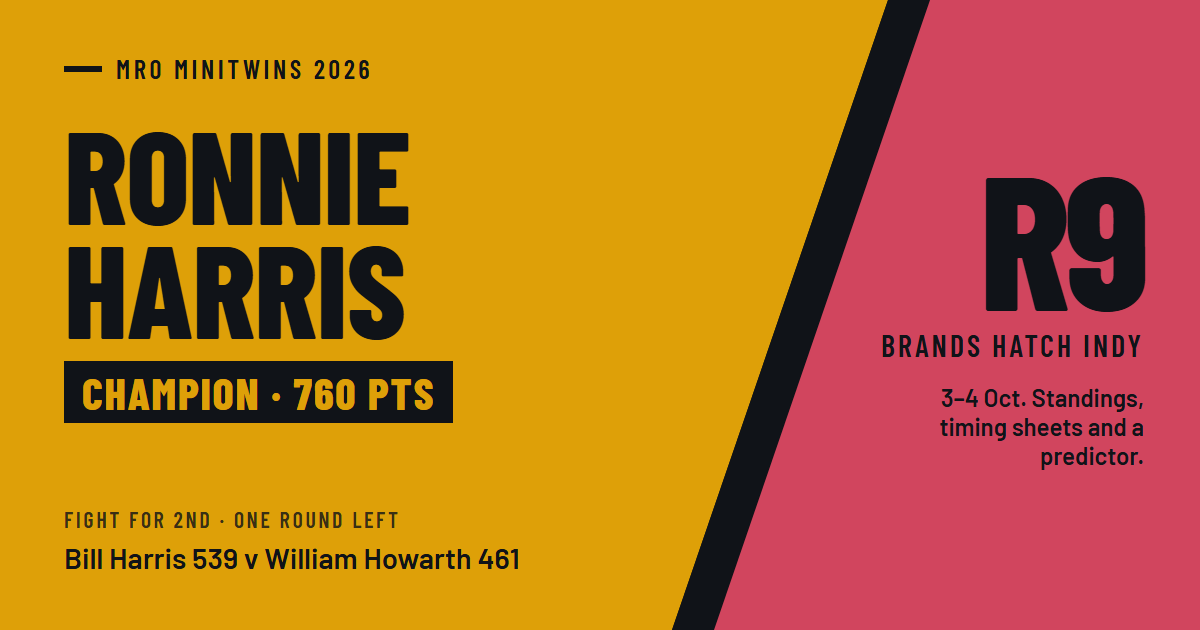
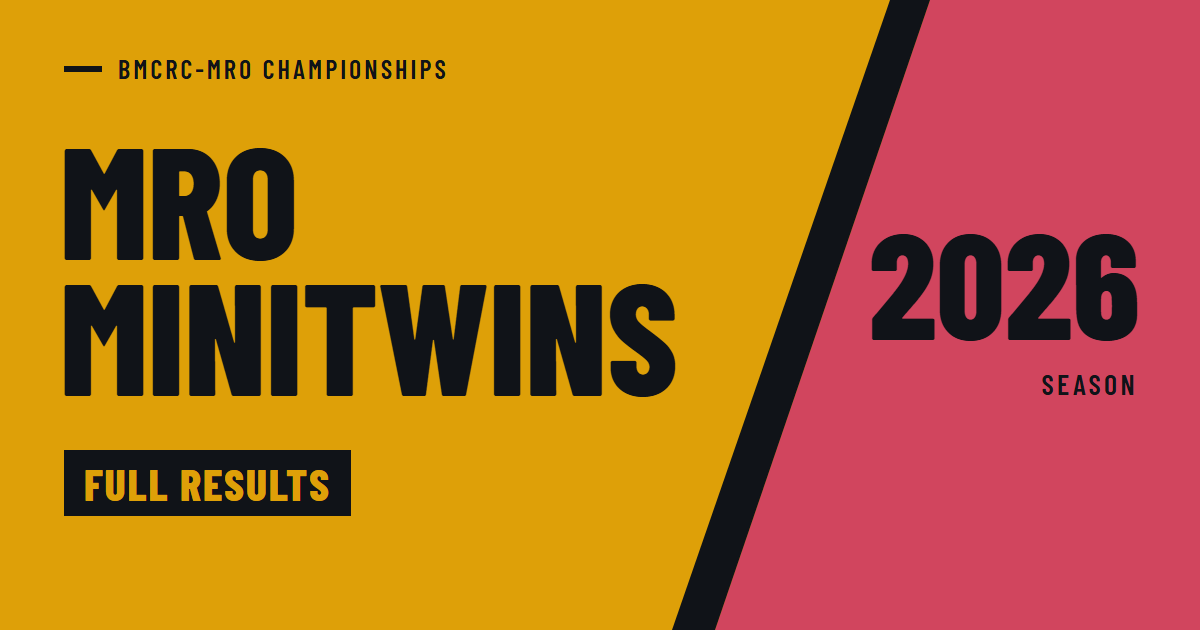
v4.5: link preview title, description and image for full season results

diff --git a/index.html b/index.html
@@ -4,7 +4,7 @@
 <meta charset="utf-8">
 <meta name="viewport" content="width=device-width, initial-scale=1, viewport-fit=cover">
 <meta name="theme-color" content="#101318">
-<meta name="description" content="Ronnie Harris is the 2026 champion. Bill Harris and William Howarth fight for 2nd at Brands Hatch Indy, 3-4 Oct. Standings, timing sheets, head to head and a Round 9 predictor.">
+<meta name="description" content="Full results from the 2026 season">
 <meta name="mobile-web-app-capable" content="yes">
 <meta name="apple-mobile-web-app-capable" content="yes">
 <meta name="apple-mobile-web-app-status-bar-style" content="black-translucent">
@@ -15,8 +15,8 @@
 <link rel="manifest" href="manifest.webmanifest">
 <meta property="og:type" content="website">
 <meta property="og:site_name" content="MRO Minitwins 2026">
-<meta property="og:title" content="MRO Minitwins 2026: standings after Round 8">
-<meta property="og:description" content="Ronnie Harris is the 2026 champion. Bill Harris and William Howarth fight for 2nd at Brands Hatch Indy, 3-4 Oct. Standings, timing sheets, head to head and a Round 9 predictor.">
+<meta property="og:title" content="MRO Minitwins 2026">
+<meta property="og:description" content="Full results from the 2026 season">
 <meta property="og:url" content="https://j-turansky.github.io/minitwins-2026/">
 <meta property="og:image" content="https://j-turansky.github.io/minitwins-2026/og.png">
 <meta property="og:image:width" content="1200">
